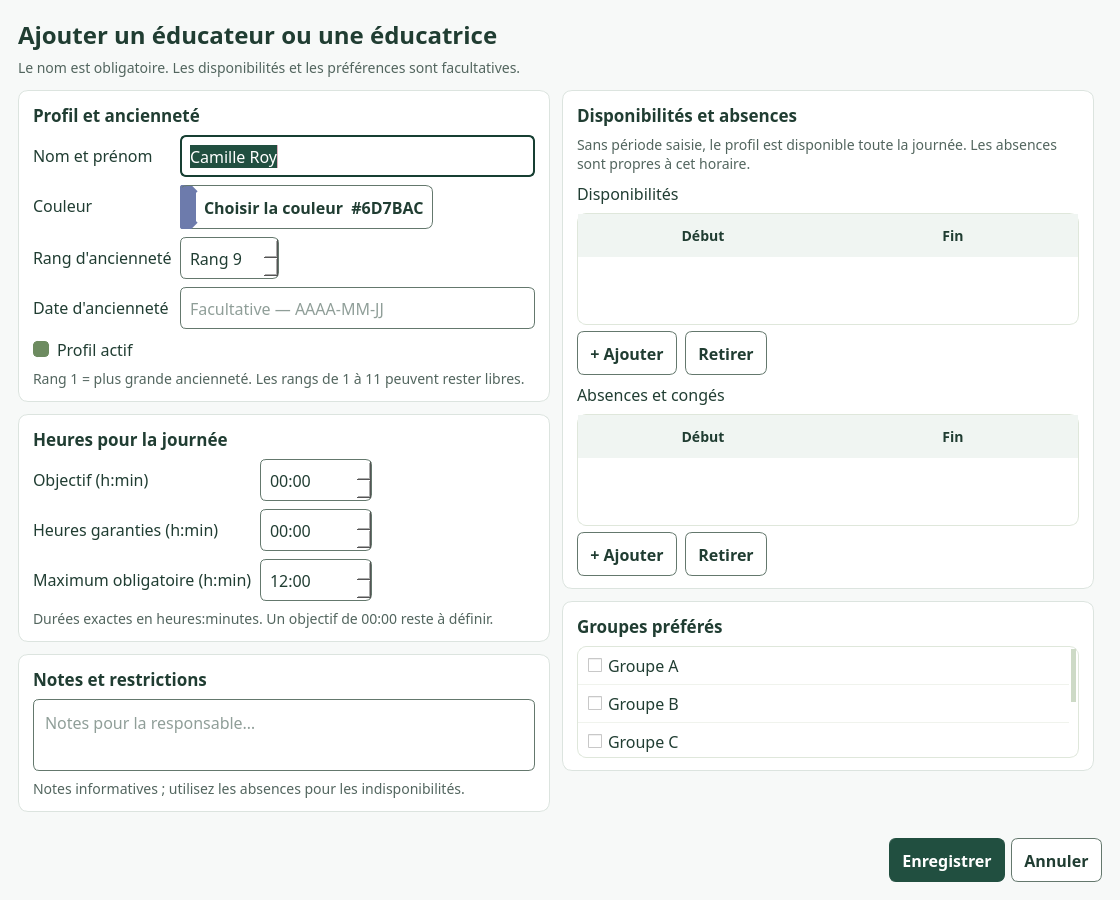
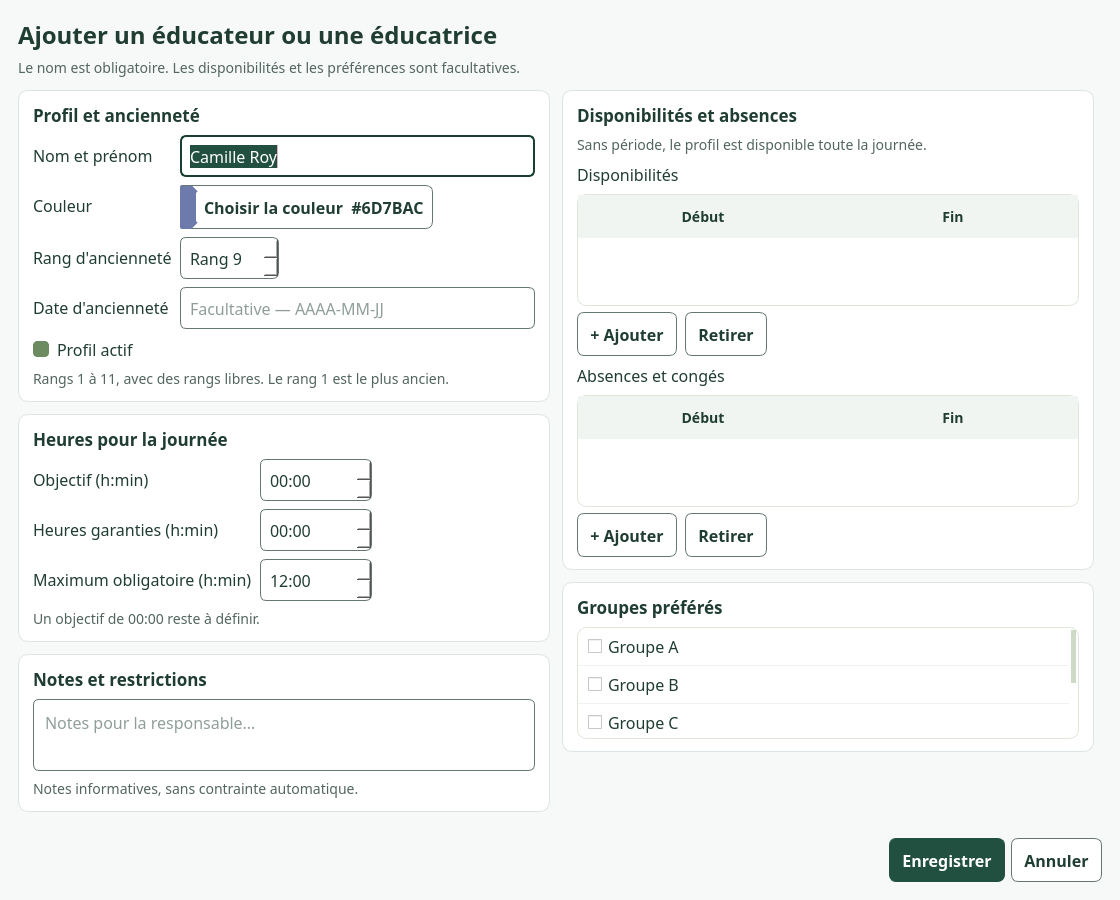
Harmoniser la typographie et alléger les indications du formulaire

diff --git a/gardeplan/ui/forms.py b/gardeplan/ui/forms.py
@@ -428,7 +428,7 @@ class EducatorDialog(EditorDialog):
         form.addRow("Rang d'ancienneté", self.seniority)
         form.addRow("Date d'ancienneté", self.seniority_date)
         form.addRow(self.active)
-        identity_layout.addWidget(note("Rang 1 = plus grande ancienneté. Les rangs de 1 à 11 peuvent rester libres."))
+        identity_layout.addWidget(note("Rangs 1 à 11, avec des rangs libres. Le rang 1 est le plus ancien."))
         hours, hours_layout = profile_section("Heures pour la journée" if week.planning_date else "Heures hebdomadaires")
         form = QFormLayout()
         form.setSpacing(8)
@@ -438,12 +438,12 @@ class EducatorDialog(EditorDialog):
         form.addRow("Objectif (h:min)", self.target)
         form.addRow("Heures garanties (h:min)", self.guaranteed)
         form.addRow("Maximum obligatoire (h:min)", self.maximum)
-        hours_layout.addWidget(note("Durées exactes en heures:minutes. Un objectif de 00:00 reste à définir."))
+        hours_layout.addWidget(note("Un objectif de 00:00 reste à définir."))
         self.profile_columns.left_layout.addWidget(hours)
         availability, availability_layout = profile_section("Disponibilités et absences")
         self.availability = IntervalsEditor(ed.availability, daily_label=week.day_label(0) if week.planning_date else "", compact=True)
         self.absences = IntervalsEditor(ed.absences, daily_label=week.day_label(0) if week.planning_date else "", compact=True)
-        availability_layout.addWidget(note("Sans période saisie, le profil est disponible toute la journée. Les absences sont propres à cet horaire."))
+        availability_layout.addWidget(note("Sans période, le profil est disponible toute la journée."))
         for title, editor in (("Disponibilités", self.availability), ("Absences et congés", self.absences)):
             availability_layout.addWidget(QLabel(title))
             availability_layout.addWidget(editor)
@@ -472,7 +472,7 @@ class EducatorDialog(EditorDialog):
         self.restrictions.setPlaceholderText("Notes pour la responsable…")
         preferences_layout.addWidget(self.preferences)
         notes_layout.addWidget(self.restrictions)
-        notes_layout.addWidget(note("Notes informatives ; utilisez les absences pour les indisponibilités."))
+        notes_layout.addWidget(note("Notes informatives, sans contrainte automatique."))
         self.profile_columns.left_layout.addWidget(notes)
         self.profile_columns.right_layout.addWidget(preferences)
         self.profile_columns.left_layout.addStretch()

diff --git a/tests/test_forms.py b/tests/test_forms.py
@@ -128,7 +128,10 @@ def test_profile_sections_share_one_window_and_stack_on_small_screens(valid_week
     assert not dialog.profile_columns.stacked
     assert dialog.scroll.verticalScrollBar().maximum() == 0, (
         dialog.size(), dialog.scroll.viewport().size(), dialog.body.size(),
-        dialog.profile_columns.left.size(), dialog.profile_columns.right.size())
+        [(column.size(), [(column.layout().itemAt(i).widget().objectName(),
+                           column.layout().itemAt(i).widget().size())
+                          for i in range(column.layout().count()) if column.layout().itemAt(i).widget()])
+         for column in (dialog.profile_columns.left, dialog.profile_columns.right)])
     for widget in (dialog.name, dialog.seniority, dialog.target, dialog.maximum,
                    dialog.availability, dialog.absences, dialog.preferences, dialog.restrictions):
         assert widget.isVisible() and widget.window() is dialog

diff --git a/gardeplan/ui/theme.py b/gardeplan/ui/theme.py
@@ -33,7 +33,7 @@ def light_palette():
 
 EDITOR_STYLE = f"""
 QDialog#editorDialog {{ background:#F7F9F8; color:{TEXT}; }}
-QDialog#editorDialog QWidget {{ color:{TEXT}; font-size:16px; }}
+QDialog#editorDialog QWidget {{ color:{TEXT}; font-family:'Segoe UI','SF Pro Text','Noto Sans',sans-serif; font-size:16px; }}
 QDialog#editorDialog QWidget#editorBody {{ background:#F7F9F8; }}
 QDialog#editorDialog QScrollArea {{ background:#F7F9F8; border:0; }}
 QDialog#editorDialog QFrame#formSection {{ background:{SURFACE}; border:1px solid #DCE4DF; border-radius:10px; }}
